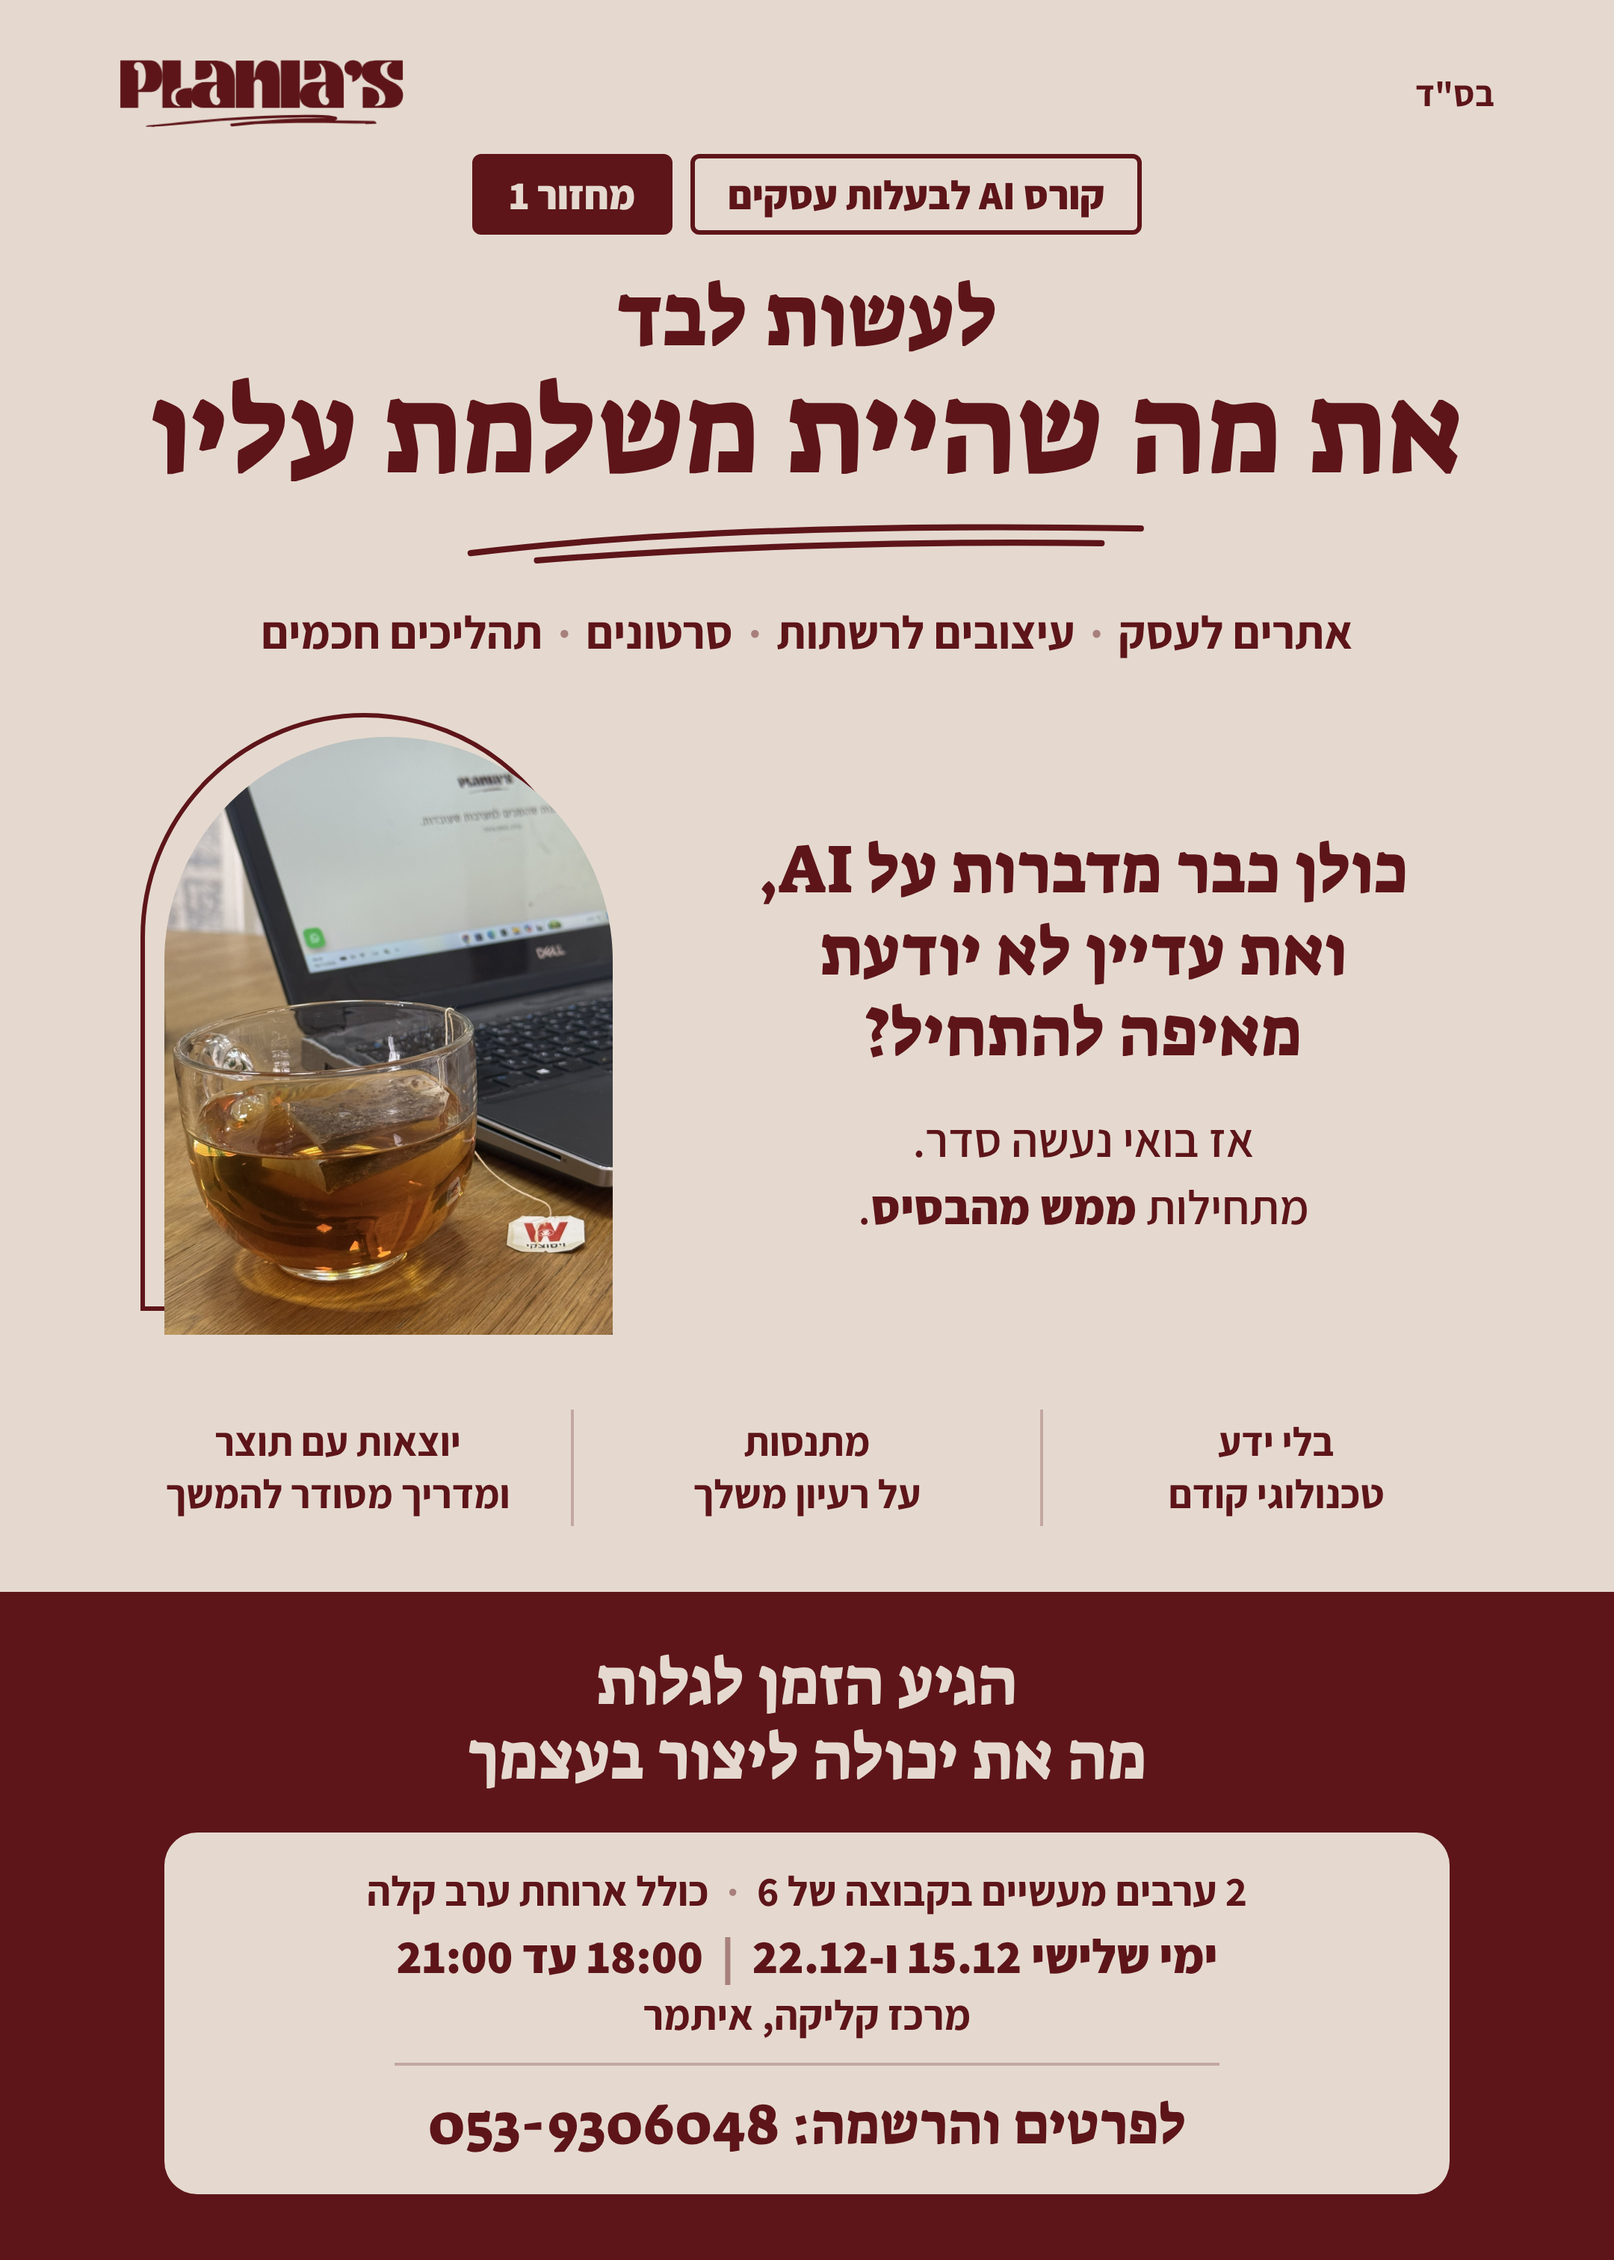
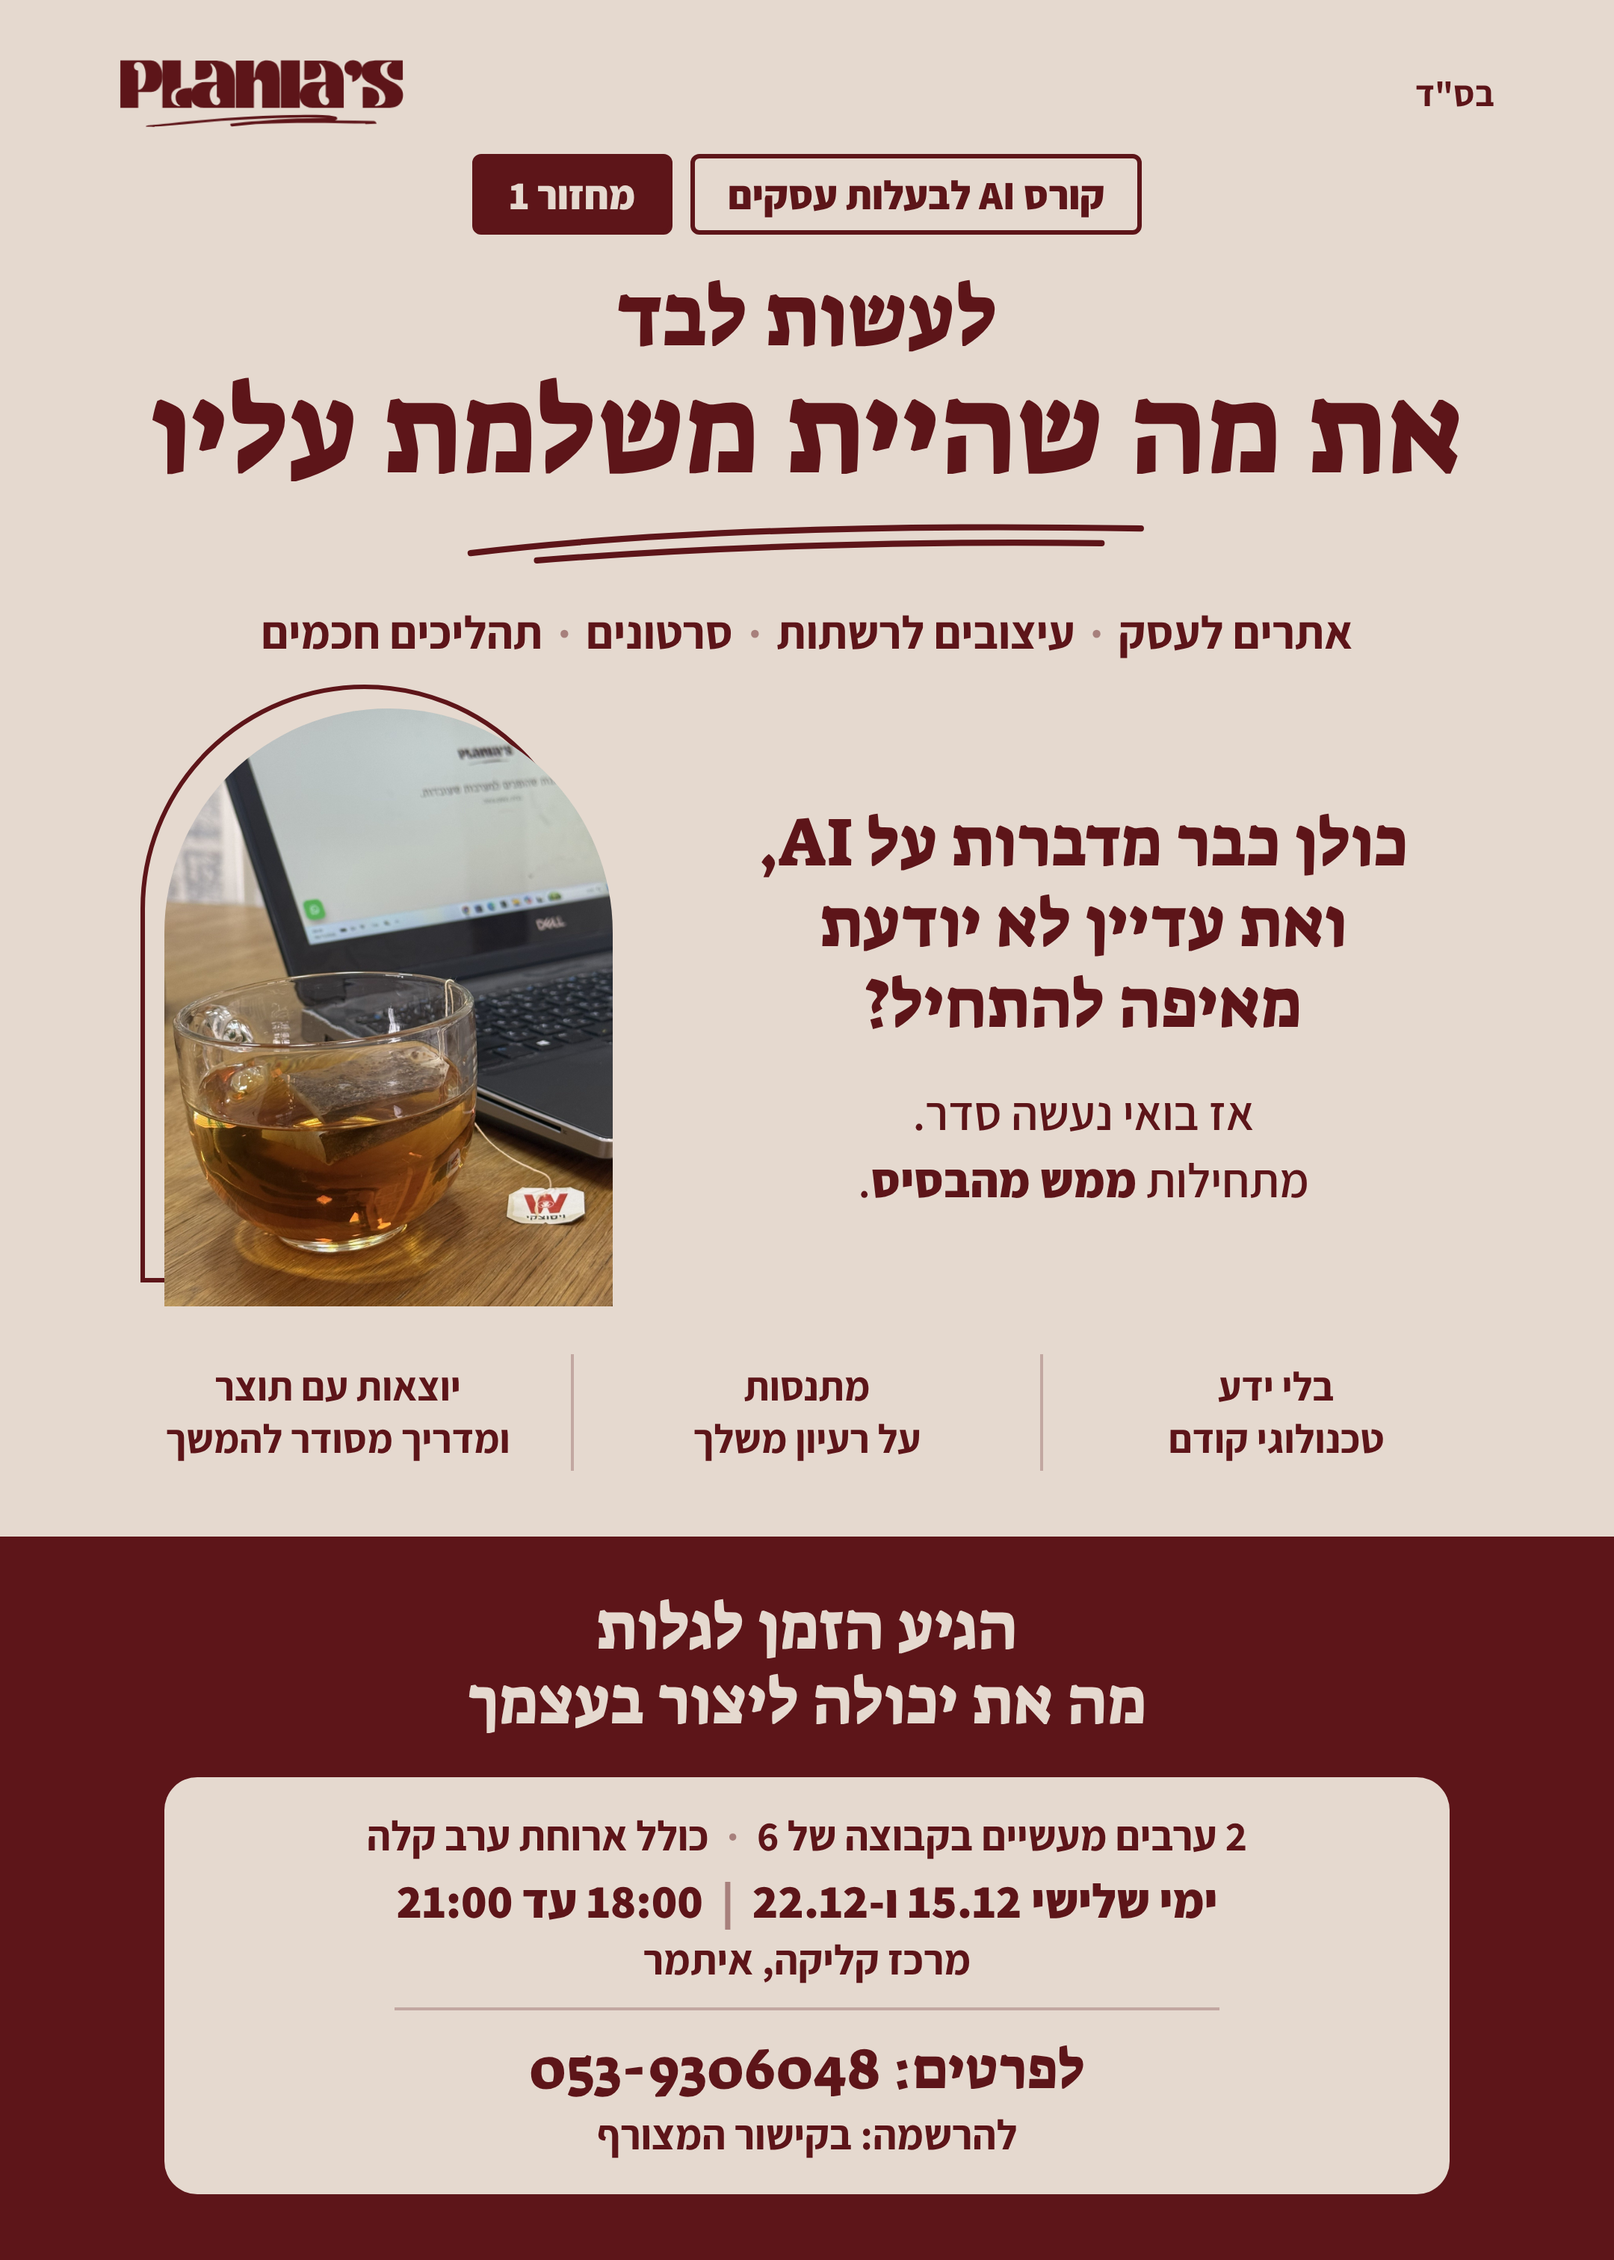
Flyer: phone for details only, registration via attached link
Claude-Session: https://claude.ai/code/session_01FAztRn3s498VxUBgDg5pS8

Changed region(s): [[0.0, 0.3108, 1.0, 0.9636], [0.4653, 0.3419, 0.8685, 0.5595]]

diff --git a/marketing/course-ad/flyer-photo.html b/marketing/course-ad/flyer-photo.html
@@ -77,7 +77,8 @@ h1 .small{display:block;font-size:58px;margin-bottom:4px}
       <div class="when">ימי שלישי 15.12 ו-22.12<span class="sep">|</span>18:00 עד 21:00</div>
       <div class="meta">מרכז קליקה, איתמר</div>
       <hr>
-      <div class="reg">לפרטים והרשמה: <span class="ltr">053-9306048</span></div>
+      <div class="reg">לפרטים: <span class="ltr">053-9306048</span></div>
+      <div class="meta">להרשמה: בקישור המצורף</div>
     </div>
   </div>
 </section>
